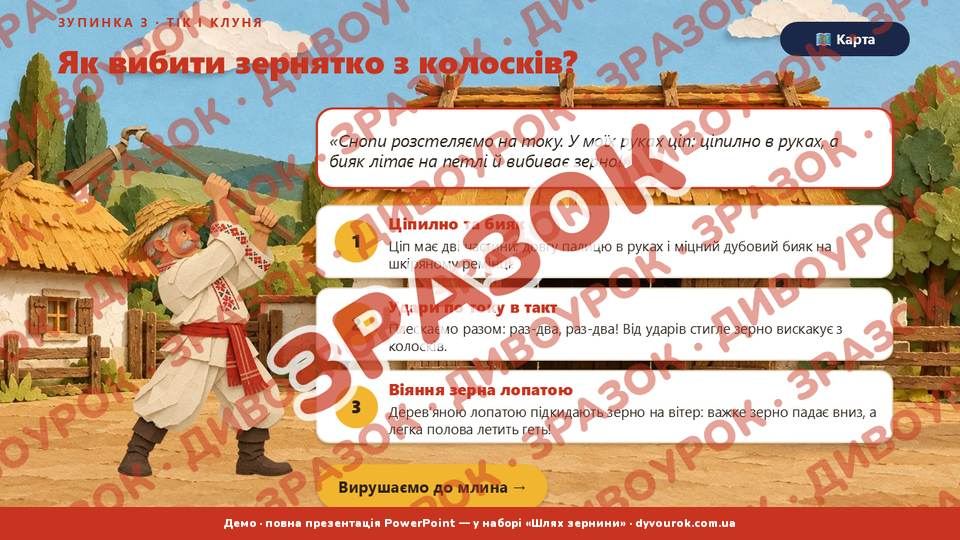
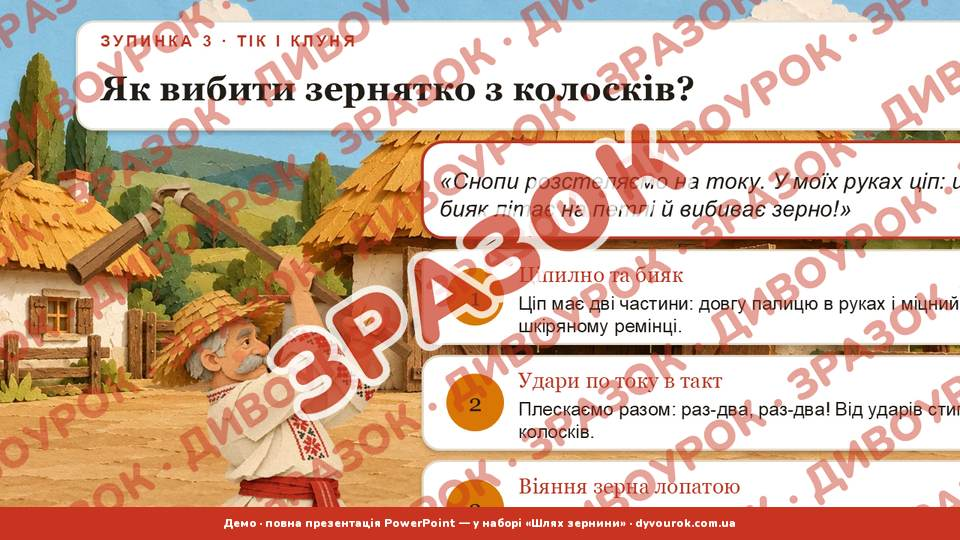
fix(khlib/pptx): fix text contrast on headers, ground characters to floor, resolve button overlapping

diff --git a/public/packs/khlib/pack.js b/public/packs/khlib/pack.js
@@ -14,7 +14,7 @@
   date: '16 жовтня',
   base: 'packs/khlib/',
   cover: 'img/cover-card.jpg',
-  versions: {"media/c1.jpg": "f8fc8da178", "media/c1.mp4": "abd4440046", "media/c1.vtt": "d55c3039c4", "media/c2.jpg": "02c8a68ddb", "media/c2.mp4": "df881417da", "media/c2.vtt": "99db5f16aa", "media/c3.jpg": "dd7f03119e", "media/c3.mp4": "af7a4a8631", "media/c3.vtt": "2bdef21d86", "media/m3.jpg": "d4b6daff6a", "media/m3.mp4": "9398d8b778", "media/m3.vtt": "41a78e4a5a", "docs/banery.pdf": "da53f1a016", "docs/hramota.pdf": "ad4d55fa22", "docs/nalipky-zakladky.pdf": "5e8e645f74", "docs/plan.pdf": "4ec6273cd4", "docs/rozdatka-1-4.pdf": "7d9dffcae3", "docs/rozdatka-5-7.pdf": "6c6f7d1fe0", "docs/rozdatka-8-11.pdf": "388fbd0851", "img/cover-card.jpg": "7867b4e395", "img/pptx14-01.jpg": "48635458d6", "img/pptx14-02.jpg": "b7151fa2cb", "img/pptx14-03.jpg": "2fc73804be", "img/pptx14-04.jpg": "b476509c4d", "img/pptx14-05.jpg": "c4104aaa82", "img/pptx14-06.jpg": "9113881593", "img/pptx14-07.jpg": "0170c52c9a", "img/pptx14-08.jpg": "75eadc1b6d", "img/pptx14-09.jpg": "1afe0a4eb3", "img/pptx57-01.jpg": "1921d09e09", "img/pptx57-02.jpg": "29f6695850", "img/pptx57-03.jpg": "26360e8307", "img/pptx57-04.jpg": "537f18a882", "img/pptx57-05.jpg": "83a018c841", "img/pptx57-06.jpg": "5b4d9fb623", "img/pptx57-07.jpg": "21b499f0ca", "img/pptx57-08.jpg": "5efe8c61ce", "img/pptx811-01.jpg": "3e7a25753a", "img/pptx811-02.jpg": "19390666ee", "img/pptx811-03.jpg": "6e1e3e8042", "img/pptx811-04.jpg": "424e7074ca", "img/pptx811-05.jpg": "373b331b03", "img/pptx811-06.jpg": "113027bf0d", "img/pptx811-07.jpg": "41b715af03"},
+  versions: {"media/c1.jpg": "f8fc8da178", "media/c1.mp4": "abd4440046", "media/c1.vtt": "d55c3039c4", "media/c2.jpg": "02c8a68ddb", "media/c2.mp4": "df881417da", "media/c2.vtt": "99db5f16aa", "media/c3.jpg": "dd7f03119e", "media/c3.mp4": "af7a4a8631", "media/c3.vtt": "2bdef21d86", "media/m3.jpg": "d4b6daff6a", "media/m3.mp4": "9398d8b778", "media/m3.vtt": "41a78e4a5a", "docs/banery.pdf": "da53f1a016", "docs/hramota.pdf": "ad4d55fa22", "docs/nalipky-zakladky.pdf": "5e8e645f74", "docs/plan.pdf": "4ec6273cd4", "docs/rozdatka-1-4.pdf": "7d9dffcae3", "docs/rozdatka-5-7.pdf": "6c6f7d1fe0", "docs/rozdatka-8-11.pdf": "388fbd0851", "img/cover-card.jpg": "7867b4e395", "img/pptx14-01.jpg": "e3f55c0ac3", "img/pptx14-02.jpg": "cad2dc3466", "img/pptx14-03.jpg": "03bb5b9994", "img/pptx14-04.jpg": "ac9a23fd23", "img/pptx14-05.jpg": "4e7d5cfdf1", "img/pptx14-06.jpg": "023c18cb3b", "img/pptx14-07.jpg": "4729a0edb5", "img/pptx14-08.jpg": "dc914d5397", "img/pptx14-09.jpg": "b2d0809b28", "img/pptx57-01.jpg": "6720d5dab4", "img/pptx57-02.jpg": "669429bb9c", "img/pptx57-03.jpg": "3ba44c0c07", "img/pptx57-04.jpg": "99971bd7cf", "img/pptx57-05.jpg": "046a02c98d", "img/pptx57-06.jpg": "f70dc2f325", "img/pptx57-07.jpg": "f9539a5b4f", "img/pptx57-08.jpg": "e2d7bdf188", "img/pptx811-01.jpg": "d751c0c64d", "img/pptx811-02.jpg": "80028b7a46", "img/pptx811-03.jpg": "c26e6d8da8", "img/pptx811-04.jpg": "81a9e6aa37", "img/pptx811-05.jpg": "2c6975160a", "img/pptx811-06.jpg": "5fd3ad4bc6", "img/pptx811-07.jpg": "c79cfc721b"},
   subs: {"media/c1.mp4":[[3.4,13.21,"Мур… Знайомтеся: це дід Остап. Сто років тому хліб вирощували отак, руками. Підгляньмо!"],[13.56,24.72,"Весна, рілля готова. Зерно — у коробці на мотузці. Крок — жменя — і широко розкидаю, рівненько."],[25.07,28.57,"А чого не висипати все однією купкою? Швидше ж!"],[28.92,35.76,"Купкою зійде густо, а поруч голо. Кожному колоску треба своє місце."],[36.11,39.84,"Минуло літо. Нива стала золотою."],[40.2,46.98,"Жнемо серпом. Лівою рукою беру жменю стебел, правою — серп до себе."],[47.34,54.62,"Жменя до жмені — і вже сніп. В'яжу його перевеслом — джгутом із тієї ж соломи."],[54.97,59.42,"Мотузка… із соломи?! Оце так!"],[59.77,67.0,"Снопи ставимо в поле гуртом — хай досихають. А потім везу на тік, біля клуні."],[67.35,76.66,"Ось ціп. Довга палиця — ціпилно, коротка — бияк. А між ними шкіряна петля, тому бияк літає."],[77.01,84.45,"Снопи розстеляю на току. Замах — і бияк б'є по колоссю. Зерно вискакує з колосків!"],[84.8,87.47,"А полова? Вона ж змішалася з зерном!"],[87.82,95.67,"А тепер — лопатою вгору, на вітер. Важке зерно падає, а легка полова летить геть."],[96.02,100.71,"Мур-р. Зерно чисте. Тепер — до мельника!"]],"hq/c1.mp4":[[3.4,13.21,"Мур… Знайомтеся: це дід Остап. Сто років тому хліб вирощували отак, руками. Підгляньмо!"],[13.56,24.72,"Весна, рілля готова. Зерно — у коробці на мотузці. Крок — жменя — і широко розкидаю, рівненько."],[25.07,28.57,"А чого не висипати все однією купкою? Швидше ж!"],[28.92,35.76,"Купкою зійде густо, а поруч голо. Кожному колоску треба своє місце."],[36.11,39.84,"Минуло літо. Нива стала золотою."],[40.2,46.98,"Жнемо серпом. Лівою рукою беру жменю стебел, правою — серп до себе."],[47.34,54.62,"Жменя до жмені — і вже сніп. В'яжу його перевеслом — джгутом із тієї ж соломи."],[54.97,59.42,"Мотузка… із соломи?! Оце так!"],[59.77,67.0,"Снопи ставимо в поле гуртом — хай досихають. А потім везу на тік, біля клуні."],[67.35,76.66,"Ось ціп. Довга палиця — ціпилно, коротка — бияк. А між ними шкіряна петля, тому бияк літає."],[77.01,84.45,"Снопи розстеляю на току. Замах — і бияк б'є по колоссю. Зерно вискакує з колосків!"],[84.8,87.47,"А полова? Вона ж змішалася з зерном!"],[87.82,95.67,"А тепер — лопатою вгору, на вітер. Важке зерно падає, а легка полова летить геть."],[96.02,100.71,"Мур-р. Зерно чисте. Тепер — до мельника!"]],"media/c2.mp4":[[3.4,9.66,"А це вітряк. Його господар — мельник Гнат. Зазирнімо всередину!"],[10.01,16.52,"Заходьте! Внизу тримаю мішки — і з зерном, і з борошном. А мелемо нагорі."],[16.87,24.45,"Спершу крила треба поставити проти вітру. Беру водило — довгу жердину — і повертаю весь вітряк."],[24.8,27.95,"Увесь вітряк?! Отак руками?"],[28.3,35.19,"Атож. Він стоїть на одному товстому стовпі, як на нозі. Тож і повертається."],[35.54,42.55,"Вітер крутить крила. Крила крутять вал. А на валу — велике колесо з дерев'яними зубцями."],[42.9,50.13,"Зубці чіпляють менше колесо — цівку. Цівка крутить веретено, а веретено — верхнє жорно."],[50.48,56.51,"Жорен двоє. Нижнє лежить нерухомо, а верхнє крутиться над ним."],[56.86,63.58,"Зерно сиплю в кіш. Коник трусить — і зерно по зернятку біжить у дірку верхнього жорна."],[63.93,66.34,"І там його — хрусь-хрусь?"],[66.69,72.81,"Між каменями зерно стирається на борошно. А борошно — по жолобу, просто в мішок."],[73.16,80.72,"Хочете дрібніше — опускаю верхнє жорно. Грубіше — піднімаю. А як вітер аж реве — гальмую."],[81.07,85.48,"Мур… Отак вітер стає борошном."]],"hq/c2.mp4":[[3.4,9.66,"А це вітряк. Його господар — мельник Гнат. Зазирнімо всередину!"],[10.01,16.52,"Заходьте! Внизу тримаю мішки — і з зерном, і з борошном. А мелемо нагорі."],[16.87,24.45,"Спершу крила треба поставити проти вітру. Беру водило — довгу жердину — і повертаю весь вітряк."],[24.8,27.95,"Увесь вітряк?! Отак руками?"],[28.3,35.19,"Атож. Він стоїть на одному товстому стовпі, як на нозі. Тож і повертається."],[35.54,42.55,"Вітер крутить крила. Крила крутять вал. А на валу — велике колесо з дерев'яними зубцями."],[42.9,50.13,"Зубці чіпляють менше колесо — цівку. Цівка крутить веретено, а веретено — верхнє жорно."],[50.48,56.51,"Жорен двоє. Нижнє лежить нерухомо, а верхнє крутиться над ним."],[56.86,63.58,"Зерно сиплю в кіш. Коник трусить — і зерно по зернятку біжить у дірку верхнього жорна."],[63.93,66.34,"І там його — хрусь-хрусь?"],[66.69,72.81,"Між каменями зерно стирається на борошно. А борошно — по жолобу, просто в мішок."],[73.16,80.72,"Хочете дрібніше — опускаю верхнє жорно. Грубіше — піднімаю. А як вітер аж реве — гальмую."],[81.07,85.48,"Мур… Отак вітер стає борошном."]],"media/c3.mp4":[[3.4,10.33,"Ох, як пахне… Це бабуся Ганна. Сьогодні в неї хлібний день."],[10.68,16.38,"Хліб печу раз на тиждень — одразу кілька хлібин, на всю родину."],[16.73,24.24,"У діжі з минулого разу лишився шматочок кислого тіста. Це закваска — з неї все й починається."],[24.59,34.01,"Додаю борошно, теплу воду, дрібку солі — і мішу кулаками. Довго, поки тісто не відстане від рук."],[34.36,36.63,"А навіщо так довго місити?"],[36.98,44.26,"Щоб хліб був пишний, легкий. А тепер — під рушник, у тепло. Хай тісто підходить."],[44.61,51.27,"Тим часом топлю піч. Дубові й березові дрова: жару багато, диму мало."],[51.62,55.3,"Дрова прогоріли — вигортаю жар коцюбою вбік."],[55.66,61.33,"На лопату — капустяний листок, на листок — хлібину. І в піч!"],[61.68,65.06,"А як дізнатися, що хліб спікся? Підглянути?"],[65.41,73.12,"Виймаю й стукаю по скоринці. Дзвенить — готовий. Глухо — ще глевкий, хай допікається."],[73.47,78.01,"Гарячий хліб накриваю рушником — скоринка стане м'якою."],[78.36,84.15,"А як упаде шматочок — бабуся підніме й поцілує. Тут хліб шанують."],[84.5,88.17,"Тепер і я шануватиму. Ні крихти не розсиплю!"]],"hq/c3.mp4":[[3.4,10.33,"Ох, як пахне… Це бабуся Ганна. Сьогодні в неї хлібний день."],[10.68,16.38,"Хліб печу раз на тиждень — одразу кілька хлібин, на всю родину."],[16.73,24.24,"У діжі з минулого разу лишився шматочок кислого тіста. Це закваска — з неї все й починається."],[24.59,34.01,"Додаю борошно, теплу воду, дрібку солі — і мішу кулаками. Довго, поки тісто не відстане від рук."],[34.36,36.63,"А навіщо так довго місити?"],[36.98,44.26,"Щоб хліб був пишний, легкий. А тепер — під рушник, у тепло. Хай тісто підходить."],[44.61,51.27,"Тим часом топлю піч. Дубові й березові дрова: жару багато, диму мало."],[51.62,55.3,"Дрова прогоріли — вигортаю жар коцюбою вбік."],[55.66,61.33,"На лопату — капустяний листок, на листок — хлібину. І в піч!"],[61.68,65.06,"А як дізнатися, що хліб спікся? Підглянути?"],[65.41,73.12,"Виймаю й стукаю по скоринці. Дзвенить — готовий. Глухо — ще глевкий, хай допікається."],[73.47,78.01,"Гарячий хліб накриваю рушником — скоринка стане м'якою."],[78.36,84.15,"А як упаде шматочок — бабуся підніме й поцілує. Тут хліб шанують."],[84.5,88.17,"Тепер і я шануватиму. Ні крихти не розсиплю!"]],"media/m3.mp4":[[3.4,9.57,"Чули-чули?! День хліба святкують у всьому світі! Але чому саме шістнадцятого жовтня?"],[9.92,20.12,"Бо шістнадцятого жовтня тисяча дев'ятсот сорок п'ятого року заснували Продовольчу організацію ООН — ФАО."],[20.47,24.13,"Того ж дня відзначають і Всесвітній день продовольства."],[24.48,26.4,"А що ця ФАО робить?"],[26.75,35.15,"Дбає, щоб людям у світі вистачало їжі. Її девіз латиною — «Фіат паніс». «Хай буде хліб»."],[35.5,37.75,"Хай буде хліб… Гарно!"],[38.1,50.07,"А з двадцять другого року діє ініціатива «Зерно з України»: українське зерно разом зі Світовою продовольчою програмою ООН отримують країни, де бракує їжі."],[50.42,54.37,"Виходить, хліб — це не лише їжа, а й допомога?"],[54.72,60.27,"І праця, і пам'ять, і турбота. Тому хліб — усьому голова."]],"hq/m3.mp4":[[3.4,9.57,"Чули-чули?! День хліба святкують у всьому світі! Але чому саме шістнадцятого жовтня?"],[9.92,20.12,"Бо шістнадцятого жовтня тисяча дев'ятсот сорок п'ятого року заснували Продовольчу організацію ООН — ФАО."],[20.47,24.13,"Того ж дня відзначають і Всесвітній день продовольства."],[24.48,26.4,"А що ця ФАО робить?"],[26.75,35.15,"Дбає, щоб людям у світі вистачало їжі. Її девіз латиною — «Фіат паніс». «Хай буде хліб»."],[35.5,37.75,"Хай буде хліб… Гарно!"],[38.1,50.07,"А з двадцять другого року діє ініціатива «Зерно з України»: українське зерно разом зі Світовою продовольчою програмою ООН отримують країни, де бракує їжі."],[50.42,54.37,"Виходить, хліб — це не лише їжа, а й допомога?"],[54.72,60.27,"І праця, і пам'ять, і турбота. Тому хліб — усьому голова."]]},
   stops: [],
 

diff --git a/public/sw.js b/public/sw.js
@@ -1,5 +1,5 @@
 /* Робота без інтернету: після першого відкриття все потрібне лежить у кеші. Нову версію — через зміну VERSION. */
-const VERSION = 'dyvourok-v26';
+const VERSION = 'dyvourok-v27';
 // Мультфільми, PDF і картинки набору, які вчитель зберіг кнопкою «Робота без інтернету» (див. saveOffline в app.js).
 // Окремий кеш: не стирається з новою VERSION, адреси мають ?v=, тож застарілих файлів не віддасть.
 const MEDIA = 'dyvourok-media';

diff --git a/public/app/index.html b/public/app/index.html
@@ -18,7 +18,7 @@
 </head>
 <body>
 <div id="app"></div>
-<script src="packs/khlib/pack.js?v=a076efc90f"></script>
+<script src="packs/khlib/pack.js?v=3666161fce"></script>
 <script src="packs/mova/pack.js?v=7eebb20074"></script>
 <script src="js/star.js?v=b7e06e2615"></script>
 <script src="js/sfx.js?v=37eb85b0f8"></script>
